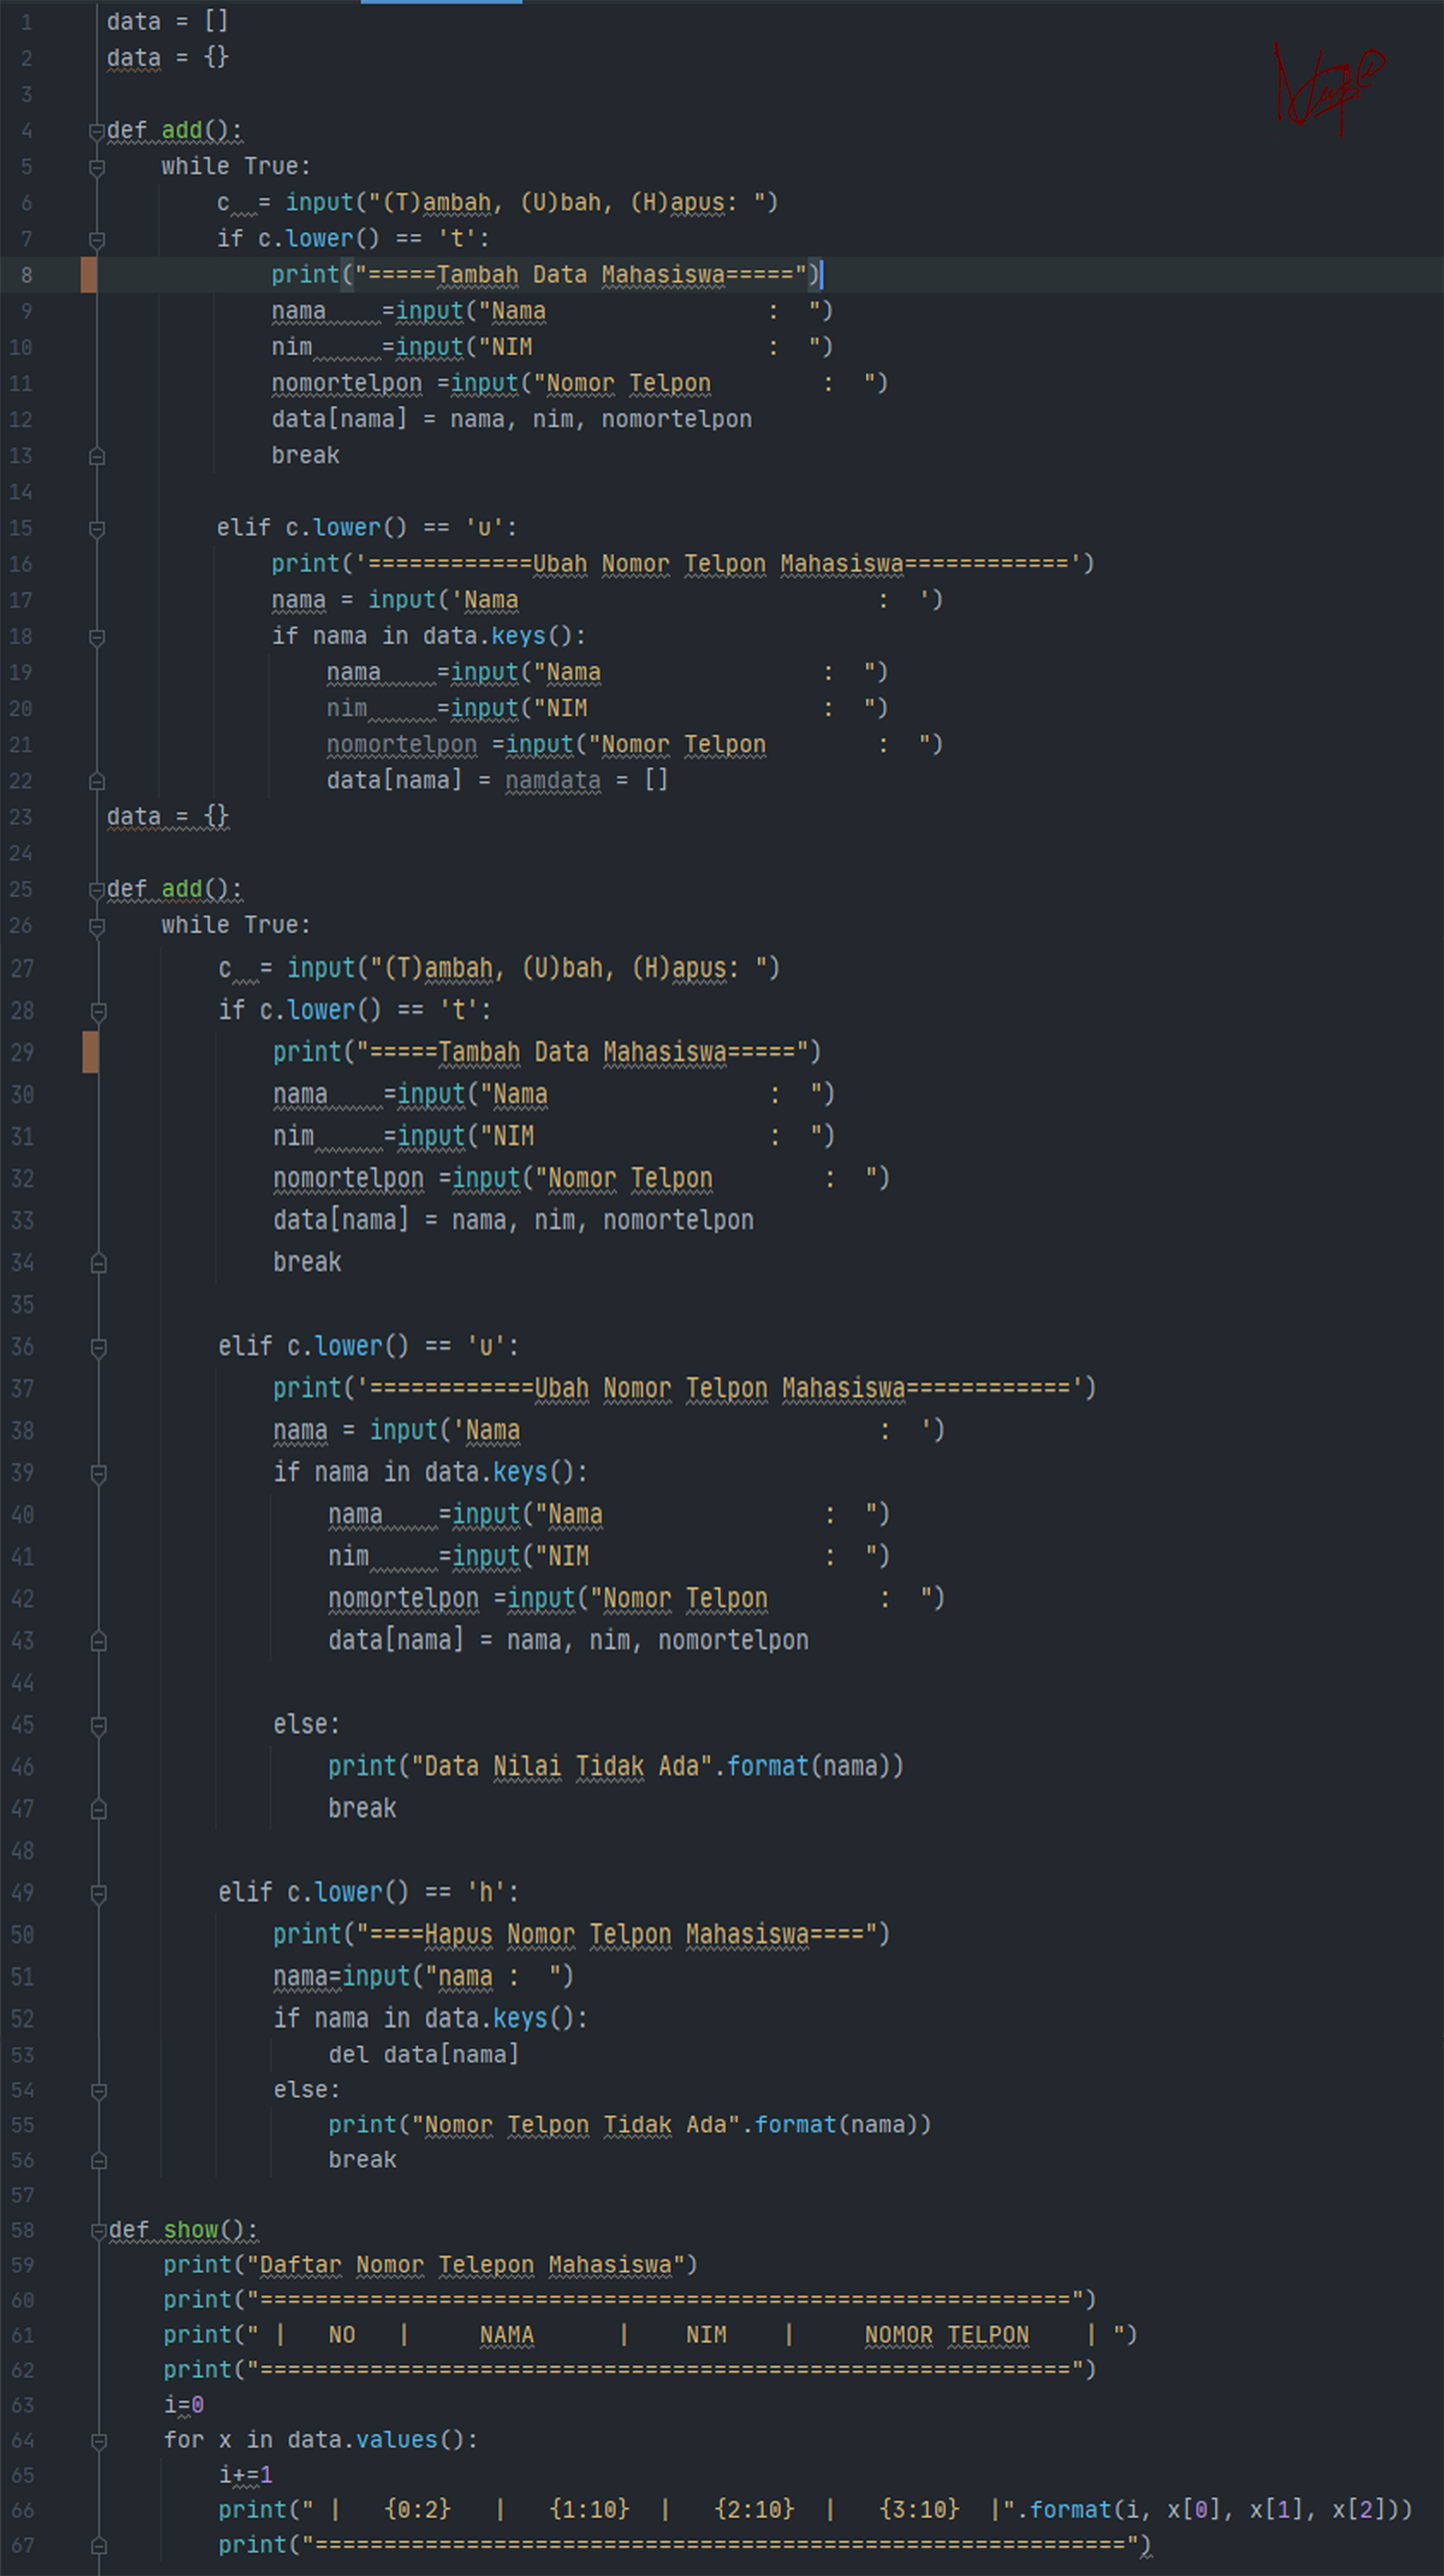
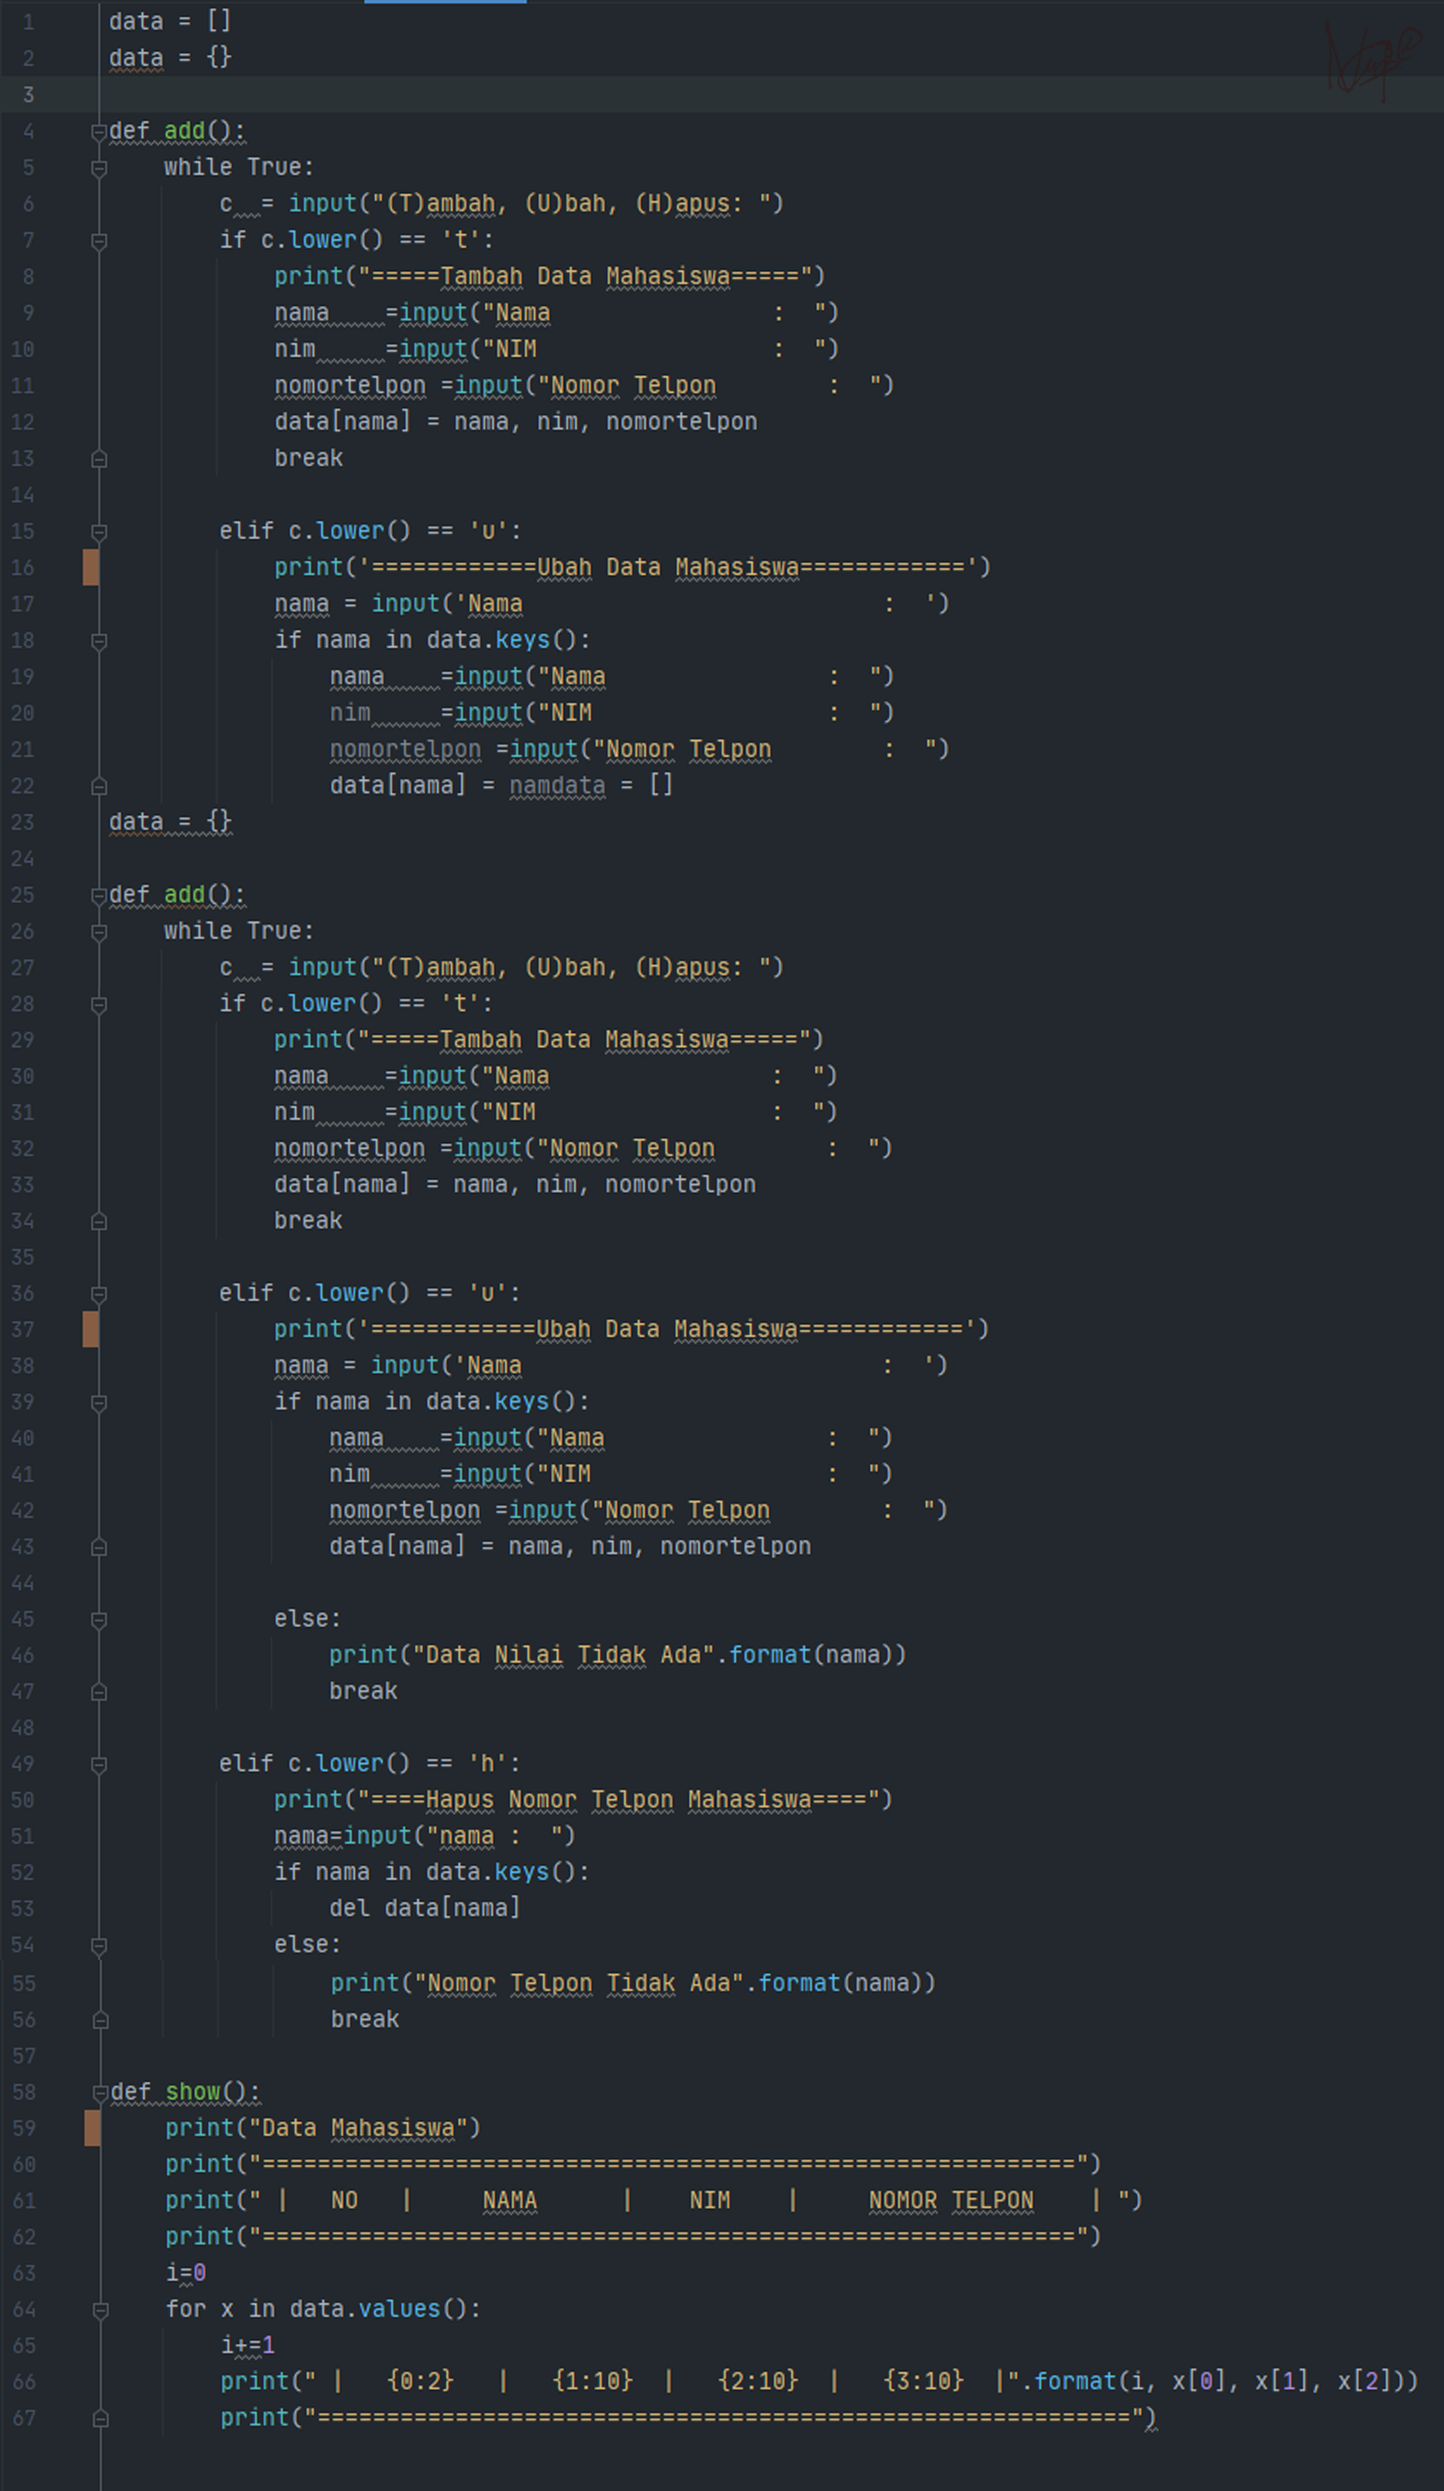
fall

diff --git a/sourcecode/data/book.py b/sourcecode/data/book.py
@@ -13,7 +13,7 @@ def add():
             break
 
         elif c.lower() == 'u':
-            print('============Ubah Nomor Telpon Mahasiswa============')
+            print('============Ubah Data Mahasiswa============')
             nama = input('Nama                          :  ')
             if nama in data.keys():
                 nama    =input("Nama                :  ")
@@ -34,7 +34,7 @@ def add():
             break
 
         elif c.lower() == 'u':
-            print('============Ubah Nomor Telpon Mahasiswa============')
+            print('============Ubah Data Mahasiswa============')
             nama = input('Nama                          :  ')
             if nama in data.keys():
                 nama    =input("Nama                :  ")
@@ -56,7 +56,7 @@ def add():
                 break
 
 def show():
-    print("Daftar Nomor Telepon Mahasiswa")
+    print("Data Mahasiswa")
     print("===========================================================")
     print(" |   NO   |     NAMA      |    NIM    |     NOMOR TELPON    | ")
     print("===========================================================")

diff --git a/sourcecode/main.py b/sourcecode/main.py
@@ -1,5 +1,4 @@
 from data import book
 
 book.add()
-book.add()
 book.show()

diff --git a/README.md b/README.md
@@ -37,5 +37,24 @@ Cukup simpel bukan? Saya pun heran. <br>
 **Kemudian setelah 2 file tersebut dibuat, lalu kita run. Maka akan menghasilkan output sebagai berikut:**
 
 <div align="center">
+<img src="images/r00.png" >
+</div> <br>
+
+Dan disitu kita punya 3 opsi.
+**Tambah**
+**Ubah**
+**Hapus**
+<br>
+
+Mari kita coba opsi T (Tambah) dari source code **Book** diatas, maka output yang keluar adalah sebagai berikut : <br>
+
+<div align="center">
 <img src="images/r01.png" >
 </div> <br>
+
+***
+## Penjelasan
+
+- <br>
+- <br>
+- <br>
